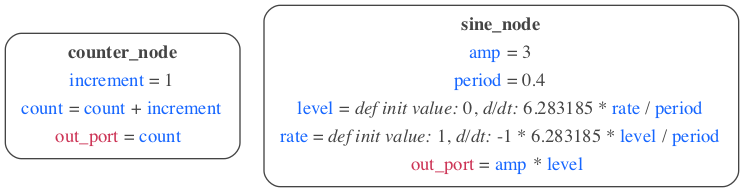
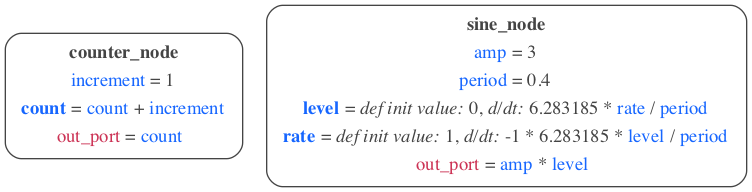
Put stateful parameters in bold
Fixes #179
Regeenerated translated

diff --git a/src/modeci_mdf/interfaces/graphviz/exporter.py b/src/modeci_mdf/interfaces/graphviz/exporter.py
@@ -57,6 +57,10 @@ def format_num(s):
     return f'<font color="{COLOR_NUM}"><b>{ss}</b>{info}</font>'
 
 
+def format_bold(s, use_bold=True):
+    return f"<b>{s}</b>" if use_bold else s
+
+
 def format_param(s):
     return f'<font color="{COLOR_PARAM}">{s}</font>'
 
@@ -177,6 +181,7 @@ def mdf_to_graphviz(
             if node.parameters and len(node.parameters) > 0:
 
                 for p in node.parameters:
+                    stateful = p.is_stateful()
                     if p.function is not None:
                         argstr = (
                             ", ".join(
@@ -187,7 +192,7 @@ def mdf_to_graphviz(
                         )
                         info += "<tr><td>{}{} = {}({})</td></tr>".format(
                             format_label(" "),
-                            format_param(p.id),
+                            format_bold(format_param(p.id), stateful),
                             format_standard_func(p.function),
                             argstr,
                         )
@@ -217,7 +222,9 @@ def mdf_to_graphviz(
                                 p.time_derivative, node
                             )
                         info += "<tr><td>{}{} = {}</td></tr>".format(
-                            format_label(" "), format_param(p.id), v
+                            format_label(" "),
+                            format_bold(format_param(p.id), stateful),
+                            v,
                         )
 
             if node.functions and len(node.functions) > 0:
